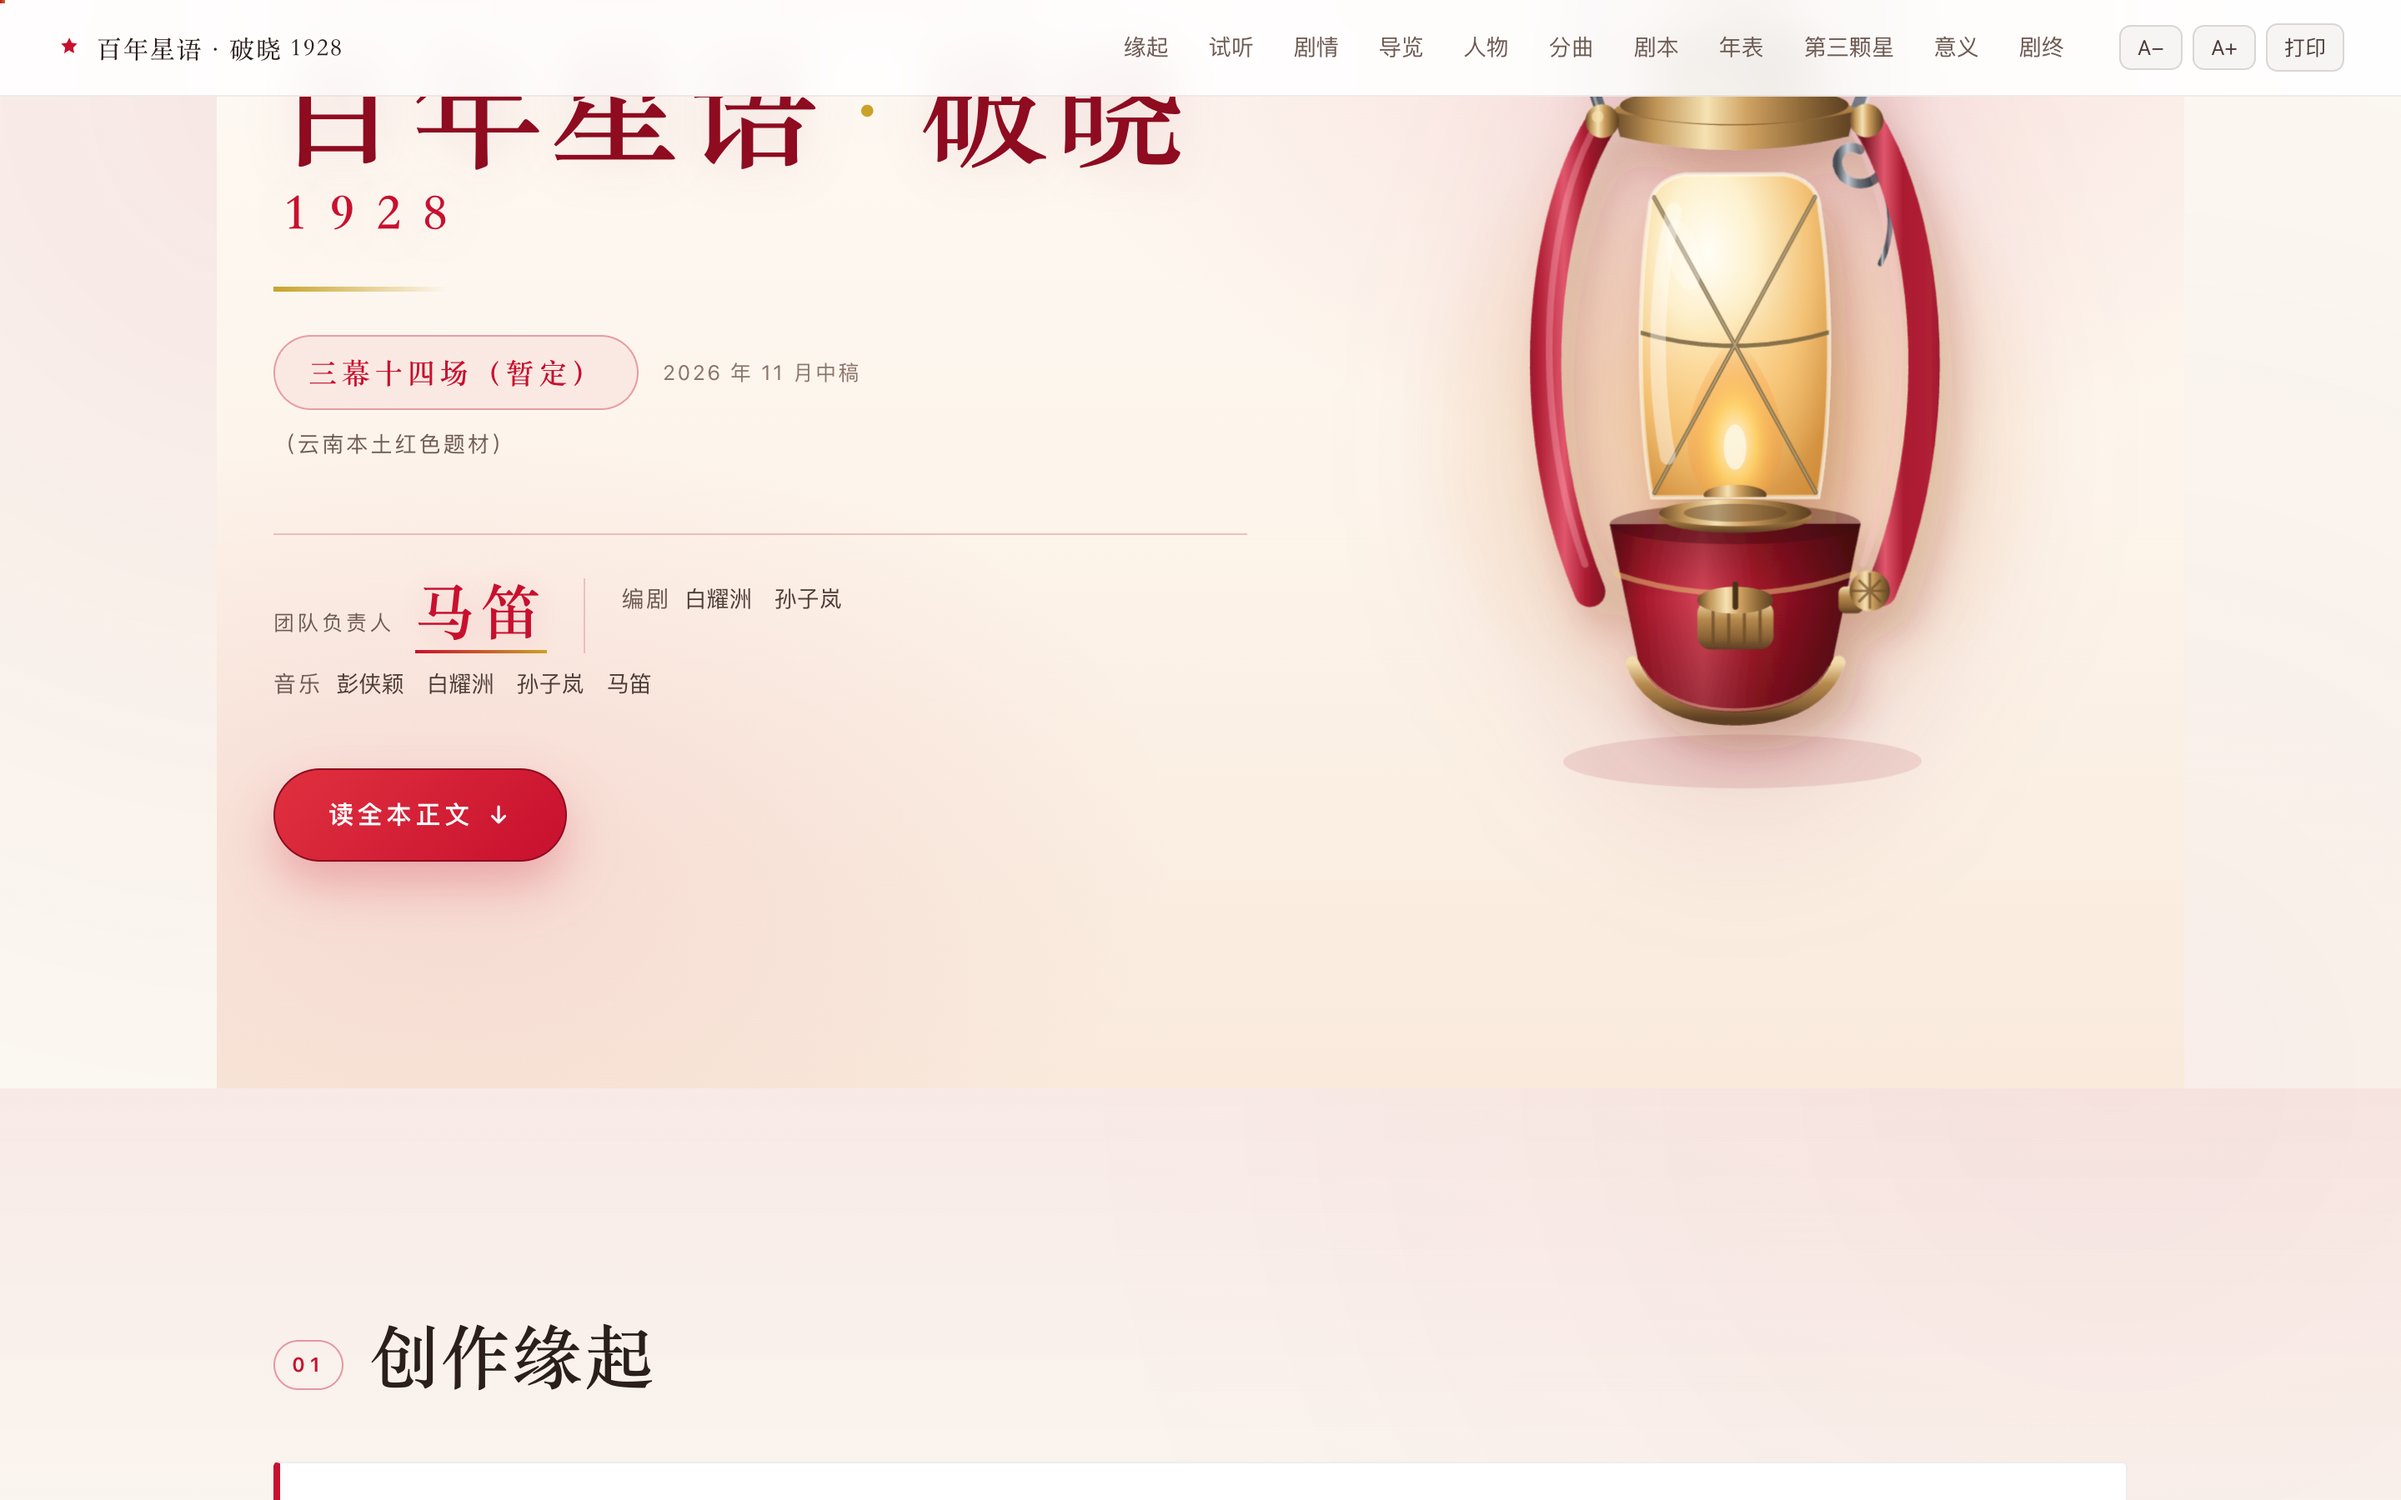
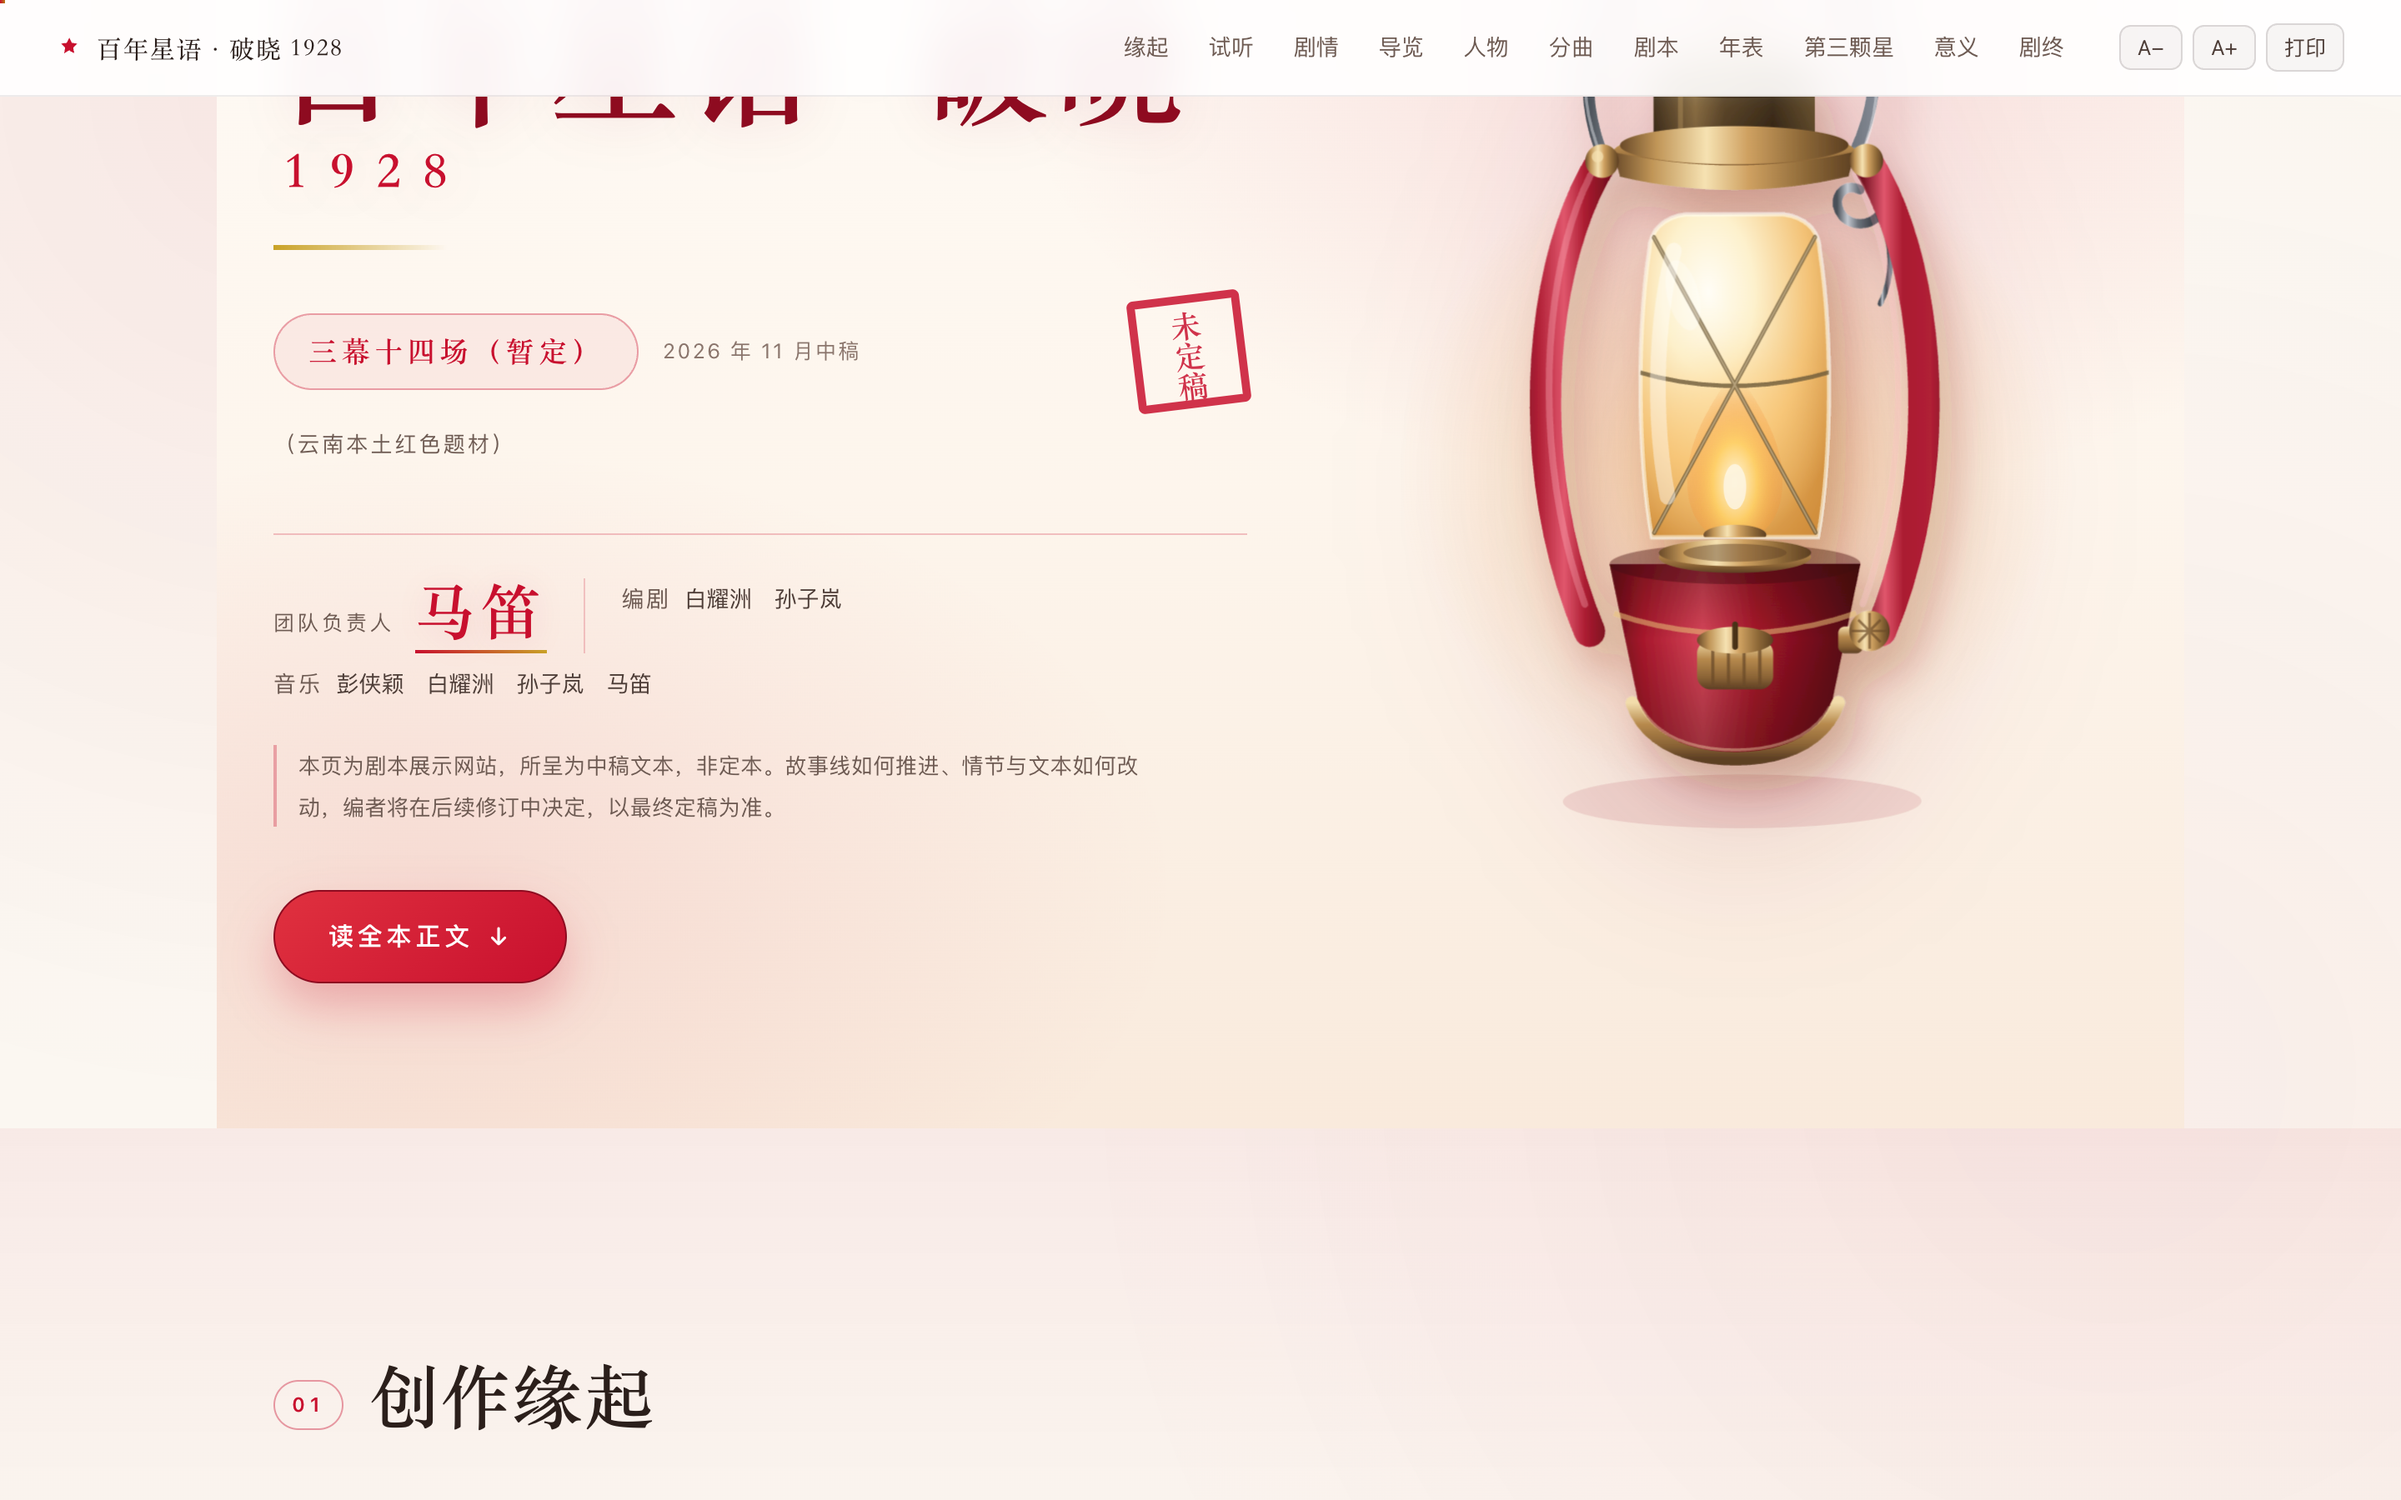
封面加「未定稿」印章与展示网站说明

diff --git a/assets/style.css b/assets/style.css
@@ -132,6 +132,14 @@ h1,h2,h3,h4{font-family:var(--serif);font-weight:600;margin:0;letter-spacing:.02
   border:1px solid rgba(200,16,46,.35);border-radius:999px;background:rgba(200,16,46,.06)}
 .hero-tag{margin:0;color:var(--muted);font-size:13px;letter-spacing:.12em}
 
+/* 未定稿印章 */
+.seal{width:70px;height:70px;margin-left:auto;flex:none;color:var(--red);
+  transform:rotate(-7deg);opacity:.85;mix-blend-mode:multiply;overflow:visible}
+.seal .seal-box{fill:none;stroke:currentColor;stroke-width:7}
+.seal text{fill:currentColor;font-family:var(--serif);font-size:26px;font-weight:700;text-anchor:middle}
+.hero-note{margin:24px 0 0;padding-left:13px;border-left:2px solid rgba(200,16,46,.32);
+  color:var(--muted);font-size:13px;line-height:1.9;letter-spacing:.02em;max-width:40em}
+
 .hero-credits{display:flex;flex-wrap:wrap;gap:6px 22px;margin:42px 0 0;padding-top:26px;
   border-top:1px solid rgba(200,16,46,.24);font-size:13.5px;color:var(--paper2)}
 .hero-credits b{font-weight:400;color:var(--muted);margin-right:8px;letter-spacing:.1em}
@@ -147,6 +155,7 @@ h1,h2,h3,h4{font-family:var(--serif);font-weight:600;margin:0;letter-spacing:.02
   background:linear-gradient(90deg,var(--red),var(--gold))}
 @media (max-width:640px){
   .hero-credits .hc-lead{border-right:0;padding-right:0}
+  .seal{width:54px;height:54px;margin-left:0}
 }
 
 .hero-go{display:inline-flex;align-items:center;gap:9px;margin-top:38px;padding:13px 32px;

diff --git a/index.html b/index.html
@@ -307,6 +307,12 @@
     <div class="hero-spec">
       <p class="hero-format">三幕十四场（暂定）</p>
       <p class="hero-ver" id="heroVer"></p>
+      <svg class="seal" viewBox="0 0 100 100" role="img" aria-label="未定稿印章">
+        <rect class="seal-box" x="5" y="5" width="90" height="90" rx="2"></rect>
+        <text x="50" y="36">未</text>
+        <text x="50" y="62">定</text>
+        <text x="50" y="88">稿</text>
+      </svg>
     </div>
     <p class="hero-tag">（云南本土红色题材）</p>
     <p class="hero-credits">
@@ -315,6 +321,7 @@
       <span><b>音乐</b>彭侠颖　白耀洲　孙子岚　马笛</span>
       <span class="dim">2026 年 11 月中稿</span>
     </p>
+    <p class="hero-note">本页为剧本展示网站，所呈为中稿文本，非定本。故事线如何推进、情节与文本如何改动，编者将在后续修订中决定，以最终定稿为准。</p>
     <a class="hero-go" href="#script">读全本正文<i>↓</i></a>
   </div>
 </section>
